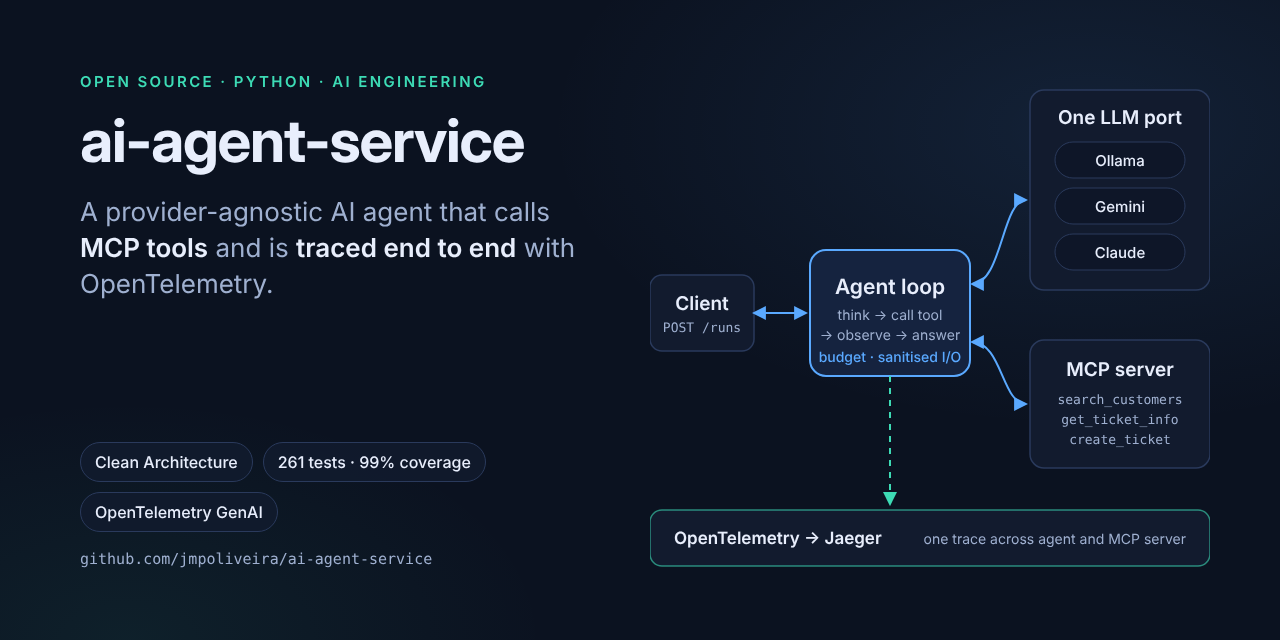
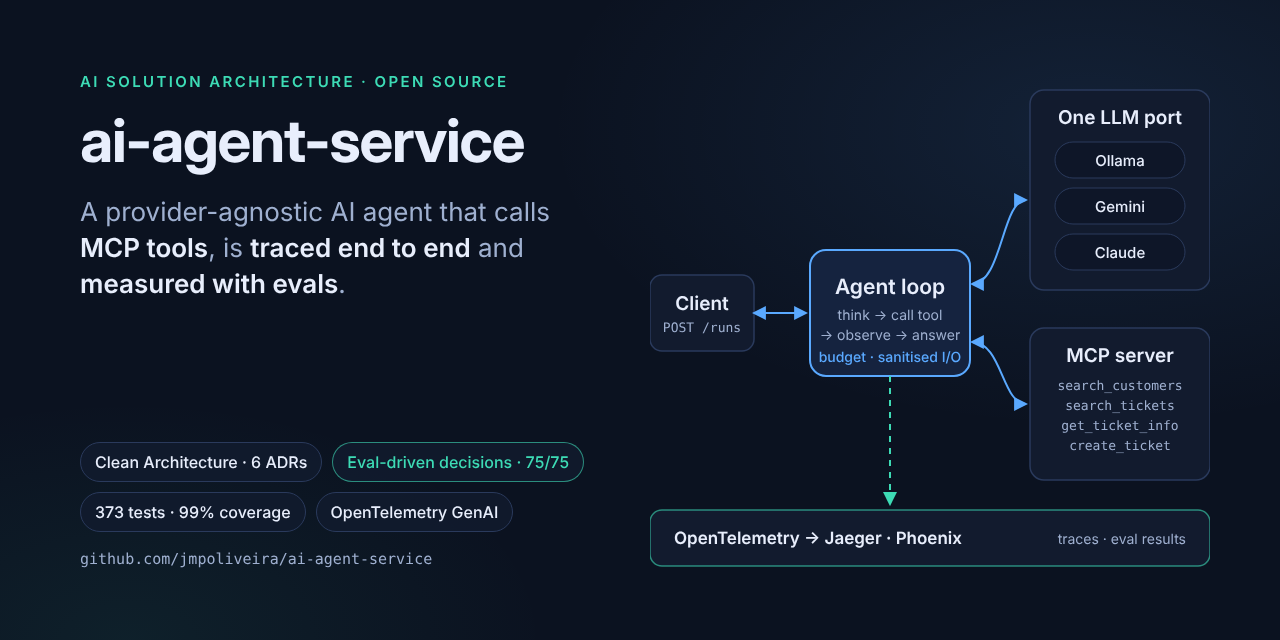
docs: design decisions summary, eval results and release v0.2.0

diff --git a/README.md b/README.md
@@ -63,6 +63,20 @@ The reasoning is in [docs/adr](docs/adr).
 
 `tests/test_architecture.py` fails the build if a layer imports something it should not.
 
+## Design decisions
+
+Every significant decision is an ADR in [docs/adr](docs/adr), with the context, the
+alternatives considered and the consequences. In short:
+
+| ADR | Decision | Trade-off accepted |
+|---|---|---|
+| [0001](docs/adr/0001-architecture.md) | Clean Architecture with an explicit agent loop (`RunAgent`), stop conditions as data | More code than a framework agent; in return the loop is testable without a network and every exit is explicit |
+| [0002](docs/adr/0002-llm-port.md) | One `ChatModel` port speaking domain types; adapters on the official LangChain partner packages | LangChain quirks can leak into adapters; any adapter can move to the native SDK without touching the loop |
+| [0003](docs/adr/0003-model-selection.md) | The caller chooses the provider; the agent never picks its own model | No automatic routing yet; it comes later as deterministic rules backed by eval data |
+| [0004](docs/adr/0004-evolution-strategy.md) | One evolving agent repository; separate repositories per deployable (MCP server, RAG) | Changes across repositories (a new tool) need coordination, and evals must record both sides |
+| [0005](docs/adr/0005-evals.md) | A small in-repo eval harness with code-based graders, before any framework | Maintaining our own harness; in return the agent under test is the deployed one and every mechanism is visible |
+| [0006](docs/adr/0006-eval-results-in-phoenix.md) | Explore eval results in Arize Phoenix, published from saved reports | One more local service, and a source-available (not OSI) license for the server |
+
 ## Quick start
 
 Requirements: Python 3.12+, a running MCP server (for example the companion
@@ -164,16 +178,36 @@ make eval                               # needs the MCP server and the provider 
 make eval PROVIDER=gemini ARGS="--tag customer-tickets"
 ```
 
-The dataset ([evals/datasets/tool_use.toml](evals/datasets/tool_use.toml)) has 22 cases over the
+The dataset ([evals/datasets/tool_use.toml](evals/datasets/tool_use.toml)) has 25 cases over the
 mcp-server mock data: customer lookup, tickets by id, tickets of a customer, no-tool questions,
-a write, and safety cases including a prompt injection planted in a tool result. Each case runs
-several times; the report gives pass rates per check and per tag, cost and latency, the trace id
-of every run, and a comparison with a baseline. Write tools are stubbed, so evals never change
+a write, and safety cases including a prompt injection planted in a tool result. Code-based
+graders check the tool sequence, the arguments, forbidden tools, tool errors, the answer, and
+that every id the model passes to a tool appeared before (`grounded_ids`: a right guess still
+fails). Each case runs several times; the report gives pass rates per check and per tag, cost
+and latency, the trace id of every run, provenance (git commit, prompt and dataset
+fingerprints), and a comparison with a baseline. Write tools are stubbed, so evals never change
 the server's data. Any report can be published to [Arize Phoenix](https://github.com/Arize-ai/phoenix)
 (`make publish REPORT=...`, or `--publish` on a run) to follow each case end to end, from the
 prompt to the failed check and its trace, and to compare runs case by case. How to run and
 extend them: [evals/README.md](evals/README.md); design: [ADR 0005](docs/adr/0005-evals.md),
 [ADR 0006](docs/adr/0006-eval-results-in-phoenix.md).
+
+### What the evals changed
+
+Six experiments, one change at a time, each measured against the run before on two models
+(full log, with every failure read: [evals/EXPERIMENTS.md](evals/EXPERIMENTS.md)):
+
+| Step | Change | qwen3:8b (Ollama) | gemini-3.5-flash-lite |
+|---|---|---|---|
+| E0' | Baseline | 54/66 | 50/66; customer ids passed as ticket ids, false "no tickets" answers |
+| E1 | Thinking off | rejected: 4x faster, but guessed ids and wrote for the wrong customer | - |
+| E2-E2b | System prompt rules | each rule moved a failure instead of removing it | guessing gone, false absence gone |
+| E3 | Tool descriptions: outputs, id formats, no real ids as examples | 54/54 outside the gap | 54/54 outside the gap |
+| E4 | New `search_tickets` tool in the mcp-server | **75/75** | **72/72** completed (3 provider errors) |
+
+The largest gain came from the **tool descriptions**, not the prompt: saying what a tool returns,
+what it does not return and what an empty result means. Examples in descriptions are read as
+data (a real customer id used as an example explained E1's wrong write).
 
 ## Docker
 
@@ -203,19 +237,19 @@ server, the HTTP API, settings validation, and the dependency rule.
 endpoints, the Docker build and run, the OTLP export to Jaeger, and whether each model family
 produces good tool calls (measure it with `make eval`).
 
-Not implemented yet: the roadmap below, apart from the evals of step 1. Until rate limiting and
-request-body size limits exist, put a reverse proxy in front of the service.
+Not implemented yet: the roadmap below from step 2 on. Until rate limiting and request-body
+size limits exist, put a reverse proxy in front of the service.
 
 ## Roadmap
 
 The order follows one rule: **measure first, then protect, then add features.** Each step is a
 tag (`v0.2`, `v0.3`...) with its ADRs. Where each capability lives follows
 [ADR 0004](docs/adr/0004-evolution-strategy.md). `v0.1.0` (the agent loop, three providers, MCP
-tools, tracing) is done.
+tools, tracing) and `v0.2.0` (evals and tool design) are done.
 
 | # | Capability | What | Why at this point |
 |---|---|---|---|
-| 1 | **Evals and tool design** | Harness, dataset and first baselines done (Ollama, Gemini; see [EXPERIMENTS.md](evals/EXPERIMENTS.md)); results explorable in Phoenix ([ADR 0006](docs/adr/0006-eval-results-in-phoenix.md)); next: Claude baseline, then `search_tickets` in the mcp-server measured against them | Every later change is measured against this |
+| 1 | **Evals and tool design** ✅ `v0.2.0` | Harness, dataset v6, baselines for Ollama and Gemini, six measured experiments ending with `search_tickets` in the mcp-server ([EXPERIMENTS.md](evals/EXPERIMENTS.md)); results explorable in Phoenix ([ADR 0006](docs/adr/0006-eval-results-in-phoenix.md)). Open: a Claude baseline, dataset v7 (a customer with several tickets) | Every later change is measured against this |
 | 2 | **Azure OpenAI provider** | A fourth `ChatModel` adapter, usable in `LLM_FALLBACKS` and measured in the eval baselines | The most common enterprise AI platform; the port makes it a small, contained change |
 | 3 | **RAG** | Retrieval from the RAG services (their own repositories, with their own deployment lifecycle) exposed as a `search_knowledge_base` MCP tool; retrieval and answer evals (recall@k, faithfulness with an LLM judge) | Retrieval is a read-only tool on the existing path, so no architecture change. Documents are untrusted input: results go through the same sanitisation, and the injection eval cases cover them |
 | 4 | **Guardrails and security I** | Human confirmation for write tools (MCP elicitation), per-tool permissions, input/output guardrails (injection, PII), rate limiting, request size limits; checked against the OWASP Top 10 for LLM applications | The agent can already change data, and the safety eval cases show where models fail |
